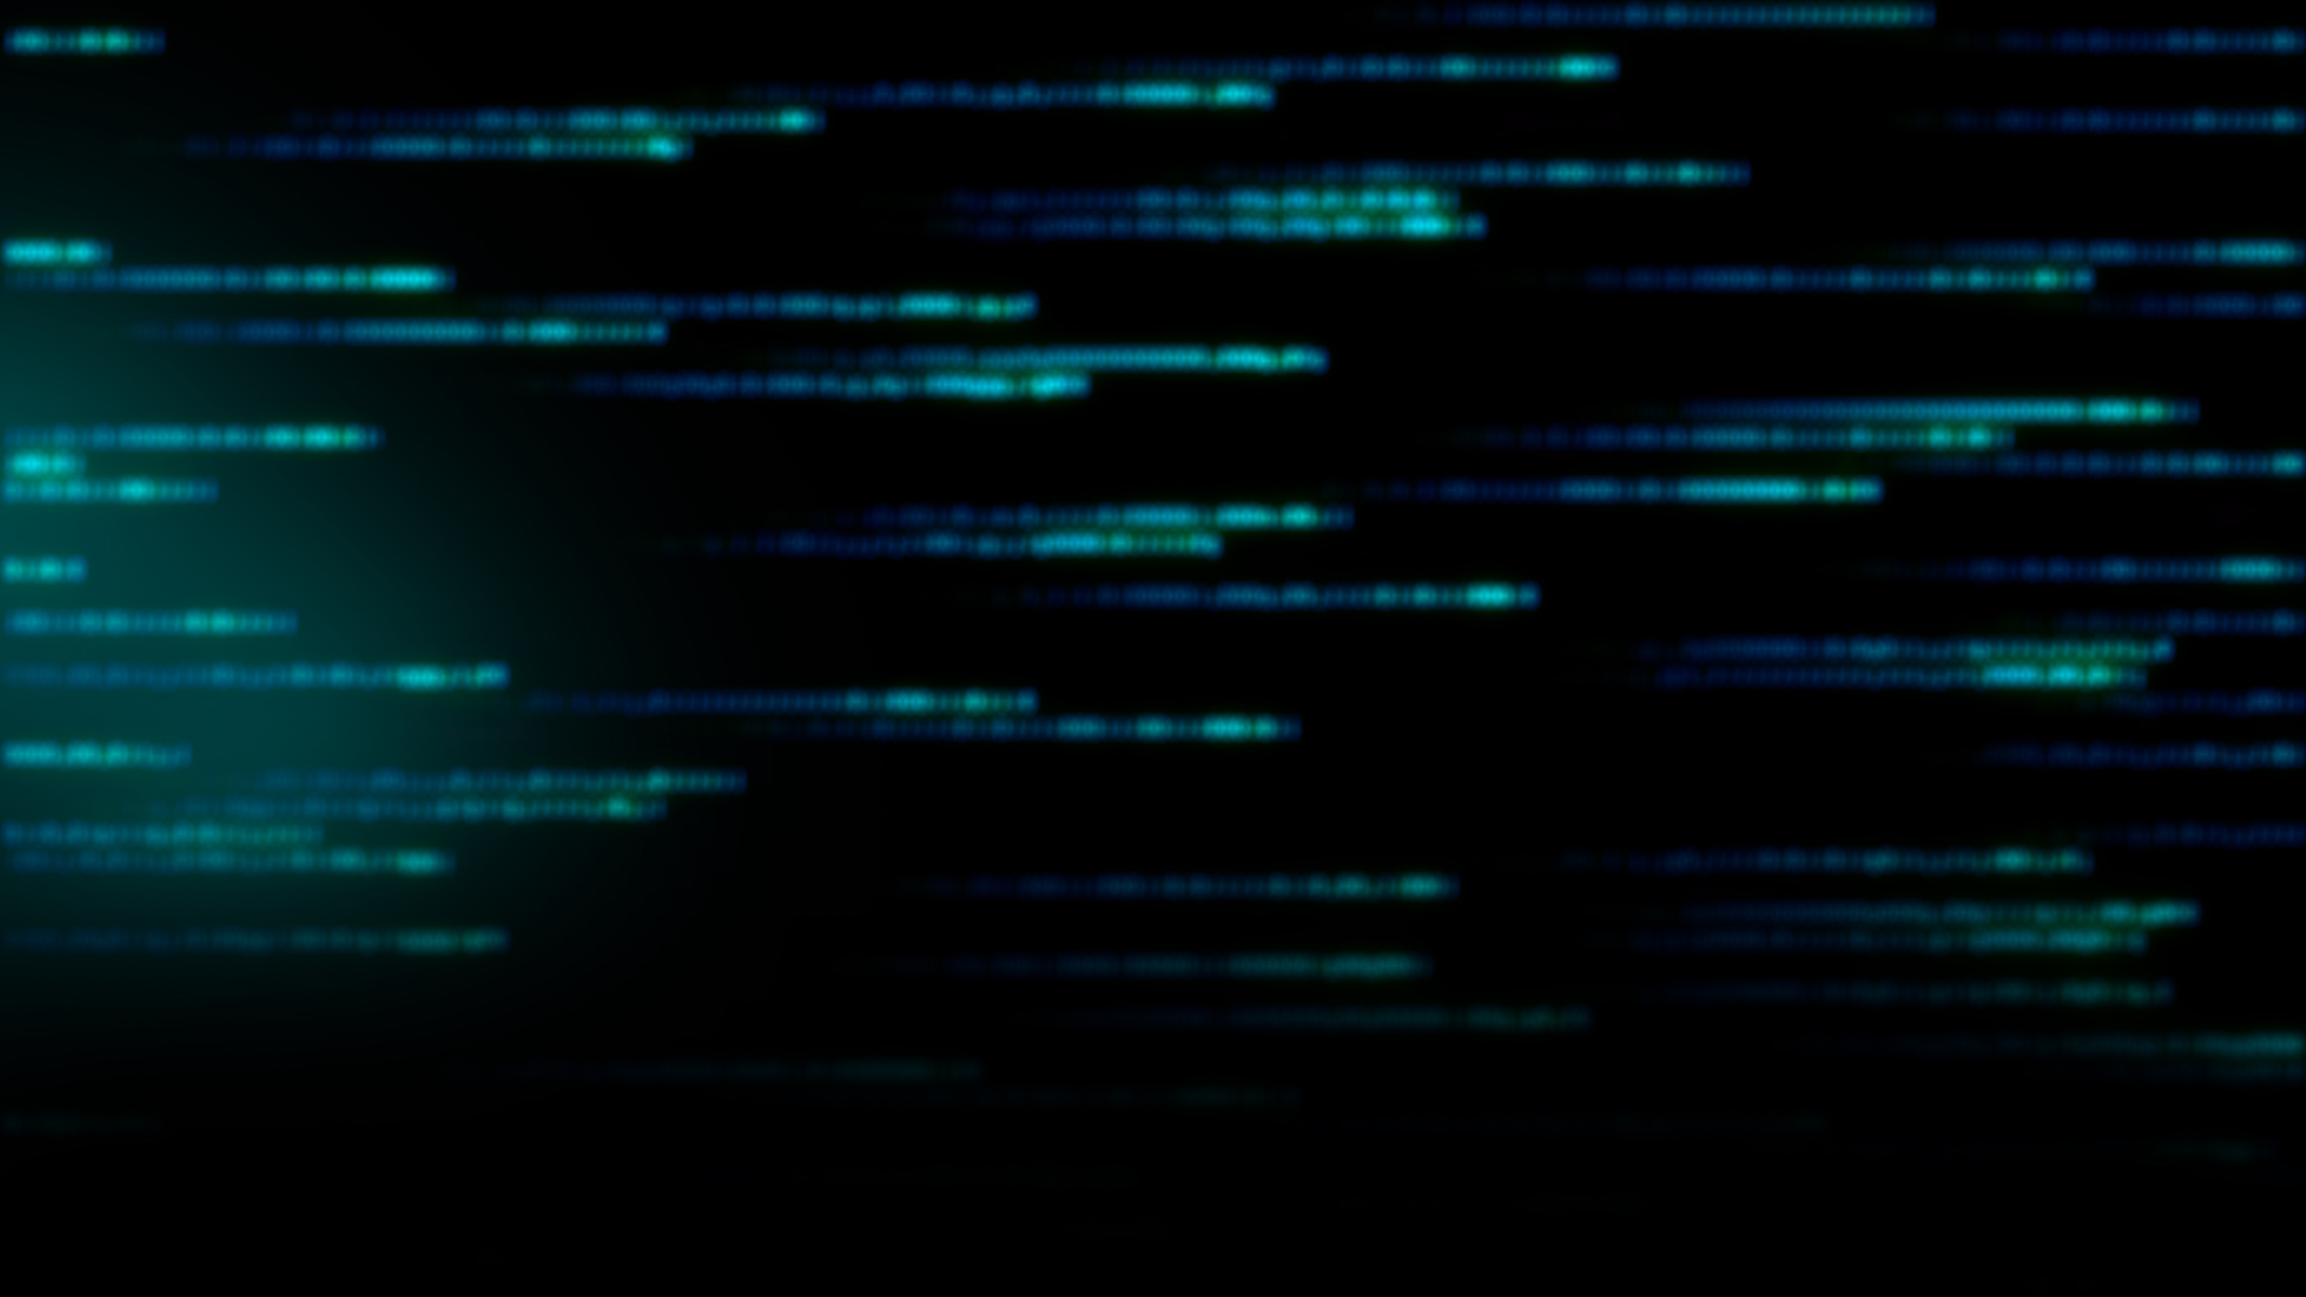
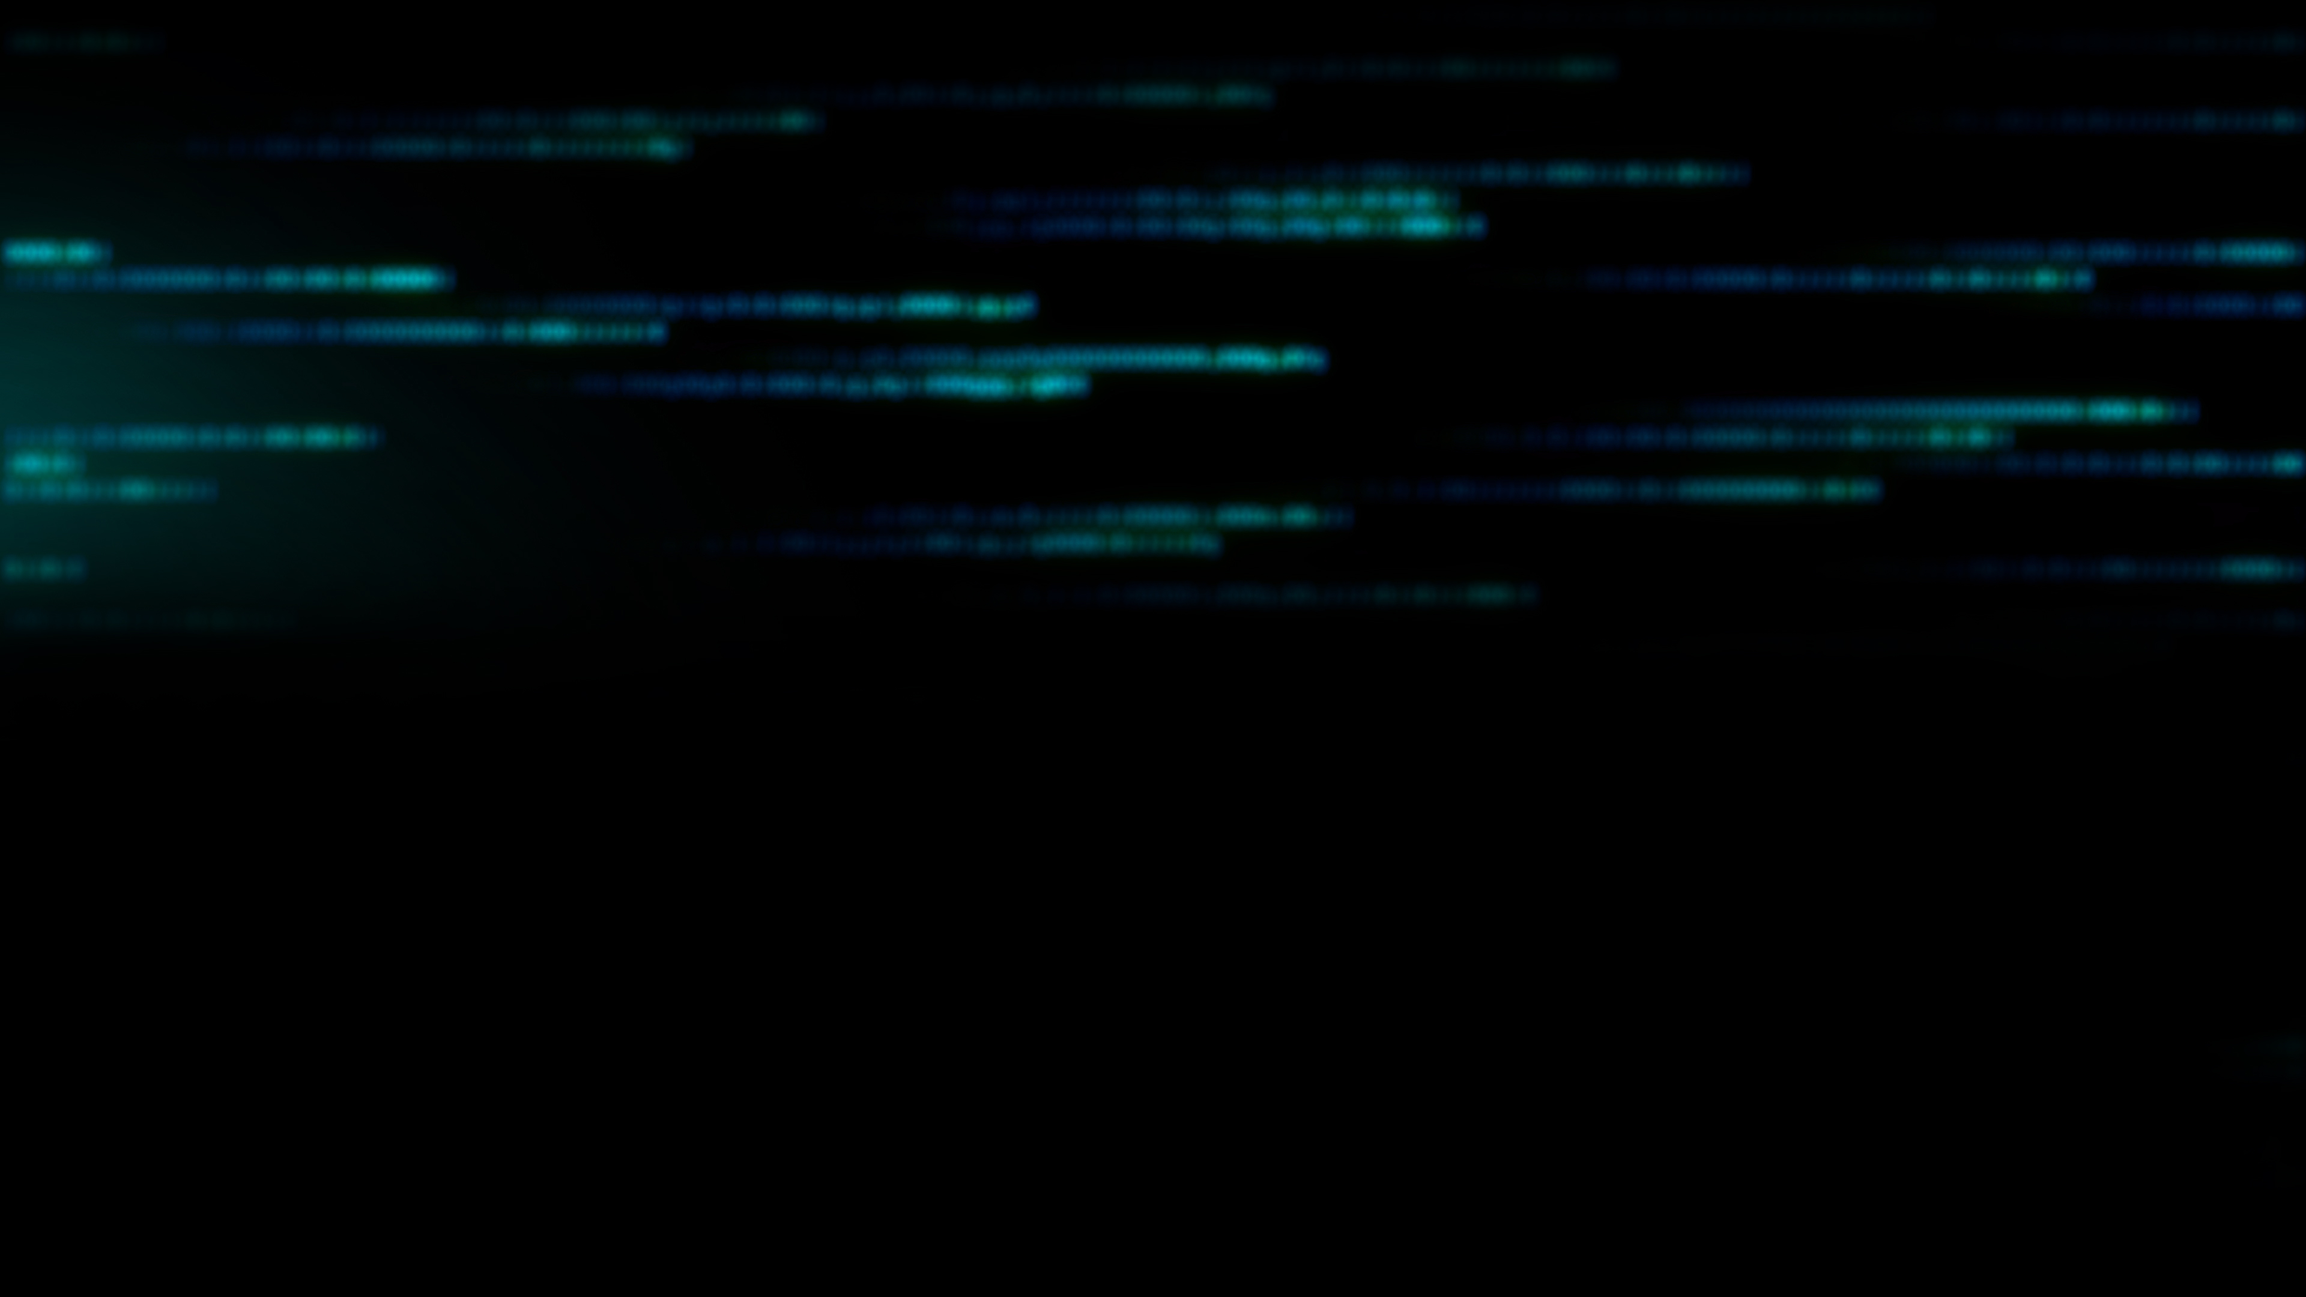
style update

diff --git a/src/App.css b/src/App.css
@@ -83,6 +83,11 @@ p.danger {
 	color: red;
 }
 /************ Navbar Css ************/
+#nv-logo{
+  max-height:50px;
+  width: 150px;
+  padding-right: 20px;
+}
 nav.navbar {
   padding: 18px 0;
   position: fixed;
@@ -334,7 +339,7 @@ nav.navbar .navbar-toggler[aria-expanded="true"] .navbar-toggler-icon {
   padding: 0 0 50px 0;
   position: relative;
   background-color: #000 !important;
-  background-image: url('./assets/img/code-wall.jpg') !important;
+  background-image: url('./assets/img/code-wall2.jpg') !important;
   background-size: cover;
  
 }
@@ -397,8 +402,9 @@ nav.navbar .navbar-toggler[aria-expanded="true"] .navbar-toggler-icon {
 .project {
   padding: 80px 0;
   position: relative;
-  background-image: url('./assets/img/code-wall2.jpg');
+  background-image: url('./assets/img/code-wall.jpg');
   background-size: cover;
+  
 }
 .project h2 {
 	font-size: 45px;
@@ -412,8 +418,9 @@ nav.navbar .navbar-toggler[aria-expanded="true"] .navbar-toggler-icon {
   line-height: 1.5em;
   margin: 14px auto 30px auto;
   text-align: center;
-  width: 56%;
+  width: 70%;
 }
+
 .project .nav.nav-pills {
   width: 72%;
   margin: 0 auto;
@@ -443,7 +450,7 @@ nav.navbar .navbar-toggler[aria-expanded="true"] .navbar-toggler-icon {
     position: absolute;
     width: 0;
     height: 100%;
-    background: linear-gradient(90.21deg, #AA367C -5.91%, #4A2FBD 111.58%);
+    background: linear-gradient(90.21deg, #0C8384 -5.91%, #083F4B 111.58%);
     top: 0;
     left: 0;
     z-index: -1;
@@ -475,7 +482,7 @@ nav.navbar .navbar-toggler[aria-expanded="true"] .navbar-toggler-icon {
 }
 .proj-imgbx::before {
   content: "";
-  background: linear-gradient(90.21deg, #AA367C -5.91%, #4A2FBD 111.58%);
+  background: linear-gradient(90.21deg, #0C8384 -5.91%, #083F4B 111.58%);
   opacity: 0.85;
   position: absolute;
   width: 100%;
@@ -519,14 +526,31 @@ nav.navbar .navbar-toggler[aria-expanded="true"] .navbar-toggler-icon {
   right: 0;
   z-index: -4;
 }
+#pageLink{
+  text-decoration: none;
+  margin-top: 120px;
+  color: #fff;
+  border-bottom: 2px solid #fff;
+}
 
 /************ Projects Css ************/
 .contact {
-  background: linear-gradient(90.21deg, #AA367C -5.91%, #4A2FBD 111.58%);
+  background-image: url('./assets/img/code-wall.jpg');
   padding: 60px 0 200px 0;
+}
+.contact form{
+  background: rgba(21, 21, 21, 0.33);
+  border-radius: 16px;
+  box-shadow: 0 4px 30px rgba(0, 0, 0, 0.1);
+  backdrop-filter: blur(5.3px);
+  -webkit-backdrop-filter: blur(5.3px);
+  border: 1px solid rgba(21, 21, 21, 0.14);
+  padding: 50px;
 }
 .contact img {
   width: 92%;
+  display:flex;
+  margin: auto auto;
 }
 .contact h2 {
 	font-size: 45px;
@@ -535,9 +559,9 @@ nav.navbar .navbar-toggler[aria-expanded="true"] .navbar-toggler-icon {
 }
 .contact form input, .contact form textarea {
   width: 100%;
-  background: rgba(255, 255, 255, 0.1);
-  border: 1px solid rgba(255, 255, 255, 0.5);
-  border-radius: 20px;
+  background:transparent;
+  outline: none !important;
+  border:none !important;
   color: #fff;
   margin: 0 0 8px 0;
   padding: 18px 26px;
@@ -545,10 +569,18 @@ nav.navbar .navbar-toggler[aria-expanded="true"] .navbar-toggler-icon {
   font-size: 18px;
   letter-spacing: 0.8px;
   transition: 0.3s ease-in-out;
+  border-bottom: 2px solid #ffffff80 !important;
+}
+.contact form textarea{
+  border: 2px solid #ffffff80 !important;
+  border-radius:8px;
+  margin-top: 20px;
+  width: 100%;
 }
 .contact form input:focus, .contact form textarea:focus {
   background: rgba(255, 255, 255, 1);
   color: #121212;
+  border-radius:8px;
 }
 .contact form input::placeholder, .contact form textarea::placeholder {
   font-size: 16px;
@@ -562,6 +594,8 @@ nav.navbar .navbar-toggler[aria-expanded="true"] .navbar-toggler-icon {
 .contact form button {
   font-weight: 700;
   color: #000;
+  width: 100%;
+  border-radius: 8px !important;
   background-color: #fff;
   padding: 14px 48px;
   font-size: 18px;
@@ -586,6 +620,7 @@ nav.navbar .navbar-toggler[aria-expanded="true"] .navbar-toggler-icon {
   top: 0;
   left: 0;
   z-index: 0;
+  border-radius: 7px !important;
   transition: 0.3s ease-in-out;
 }
 .contact form button:hover::before {
@@ -593,12 +628,29 @@ nav.navbar .navbar-toggler[aria-expanded="true"] .navbar-toggler-icon {
 }
 
 /************ Footer Css ************/
+#footerCTN{
+  margin: 0 !important;
+  padding: 0 !important;
+  margin-right: 0 !important;
+  max-width: 100%;
+}
 .footer {
-  padding: 0 0 50px 0;
-  background-image: url('./assets/img/footer-bg.png');
+  padding:0;
+  background-image: url('./assets/img/code-wall.jpg');
   background-position: center center;
   background-size: cover;
   background-repeat: no-repeat;
+  padding-top:0;
+  margin: 0  !important;
+}
+.footer-container{
+  background:#121212;;
+  padding: 50px;
+  width: 100%;
+  height: 100%;
+  margin: 0;
+ 
+
 }
 .newsletter-bx {
   background: #FFFFFF;

diff --git a/src/components/Projects.js b/src/components/Projects.js
@@ -1,8 +1,8 @@
 import { Container, Row, Col, Tab, Nav } from "react-bootstrap";
 import ProjectCard from "./ProjectCard";
-import projImg1 from "../assets/img/project-img1.png";
-import projImg2 from "../assets/img/project-img2.png";
-import projImg3 from "../assets/img/project-img3.png";
+import projImg1 from "../assets/img/punchline-card.jpg";
+import projImg2 from "../assets/img/chardle-card.jpg";
+import projImg3 from "../assets/img/ee-card.jpg";
 import colorSharp2 from "../assets/img/color-sharp2.png";
 import 'animate.css';
 import TrackVisibility from 'react-on-screen';
@@ -11,35 +11,23 @@ const Projects = () => {
     
   const projects = [
     {
-      title: "Business Startup",
-      description: "Design & Development",
+      title: "PUNCHLINE",
+      description: "E-COMMERCE (HTML, CSS, JavaScript, Bootstrap, React.js, Firebase)",
       imgUrl: projImg1,
+      siteUrl:'https://punchline-one.vercel.app'
     },
     {
-      title: "Business Startup",
-      description: "Design & Development",
+      title: "CHARDLE",
+      description: "CLON DEL JUEGO WORDLE PERO CON TEMATICA ORIENTADA A PERSONAJES FICTICIOS. (HTML, CSS, JavaScript, React.js)",
       imgUrl: projImg2,
+      siteUrl:'https://chardle.vercel.app'
     },
     {
-      title: "Business Startup",
-      description: "Design & Development",
+      title: "EE",
+      description: "CREA EXPEDIENTES DE USUARIOS CON SU INFORMACION ESPECIFICA Y ARCHIVALOS O ELIMINALOS (HTML, CSS, JavaScript, JQuery, Bootstrap)",
       imgUrl: projImg3,
-    },
-    {
-      title: "Business Startup",
-      description: "Design & Development",
-      imgUrl: projImg1,
-    },
-    {
-      title: "Business Startup",
-      description: "Design & Development",
-      imgUrl: projImg2,
-    },
-    {
-      title: "Business Startup",
-      description: "Design & Development",
-      imgUrl: projImg3,
-    },
+      siteUrl:'https://jeremiaslandry.github.io/Proyecto-Coderhouse/'
+    }
   ];
 
   return (
@@ -51,19 +39,8 @@ const Projects = () => {
                 {({ isVisible }) =>
                 <div className={isVisible ? "animate__animated animate__fadeIn": ""}>
                     <h2>Proyectos</h2>
-                    <p>Lorem Ipsum is simply dummy text of the printing and typesetting industry. Lorem Ipsum has been the industry's standard dummy text ever since the 1500s, when an unknown printer took a galley of type and scrambled it to make a type specimen book.</p>
+                    <p id='project-description'>Estos son algunos de los proyectos que realice en este ultimo año. En la descripción se pueden encontrar las diferentes tecnologías usadas para el desarrollo de estas paginas web.</p>
                     <Tab.Container id="projects-tabs" defaultActiveKey="first">
-                    <Nav variant="pills" className="nav-pills mb-5 justify-content-center align-items-center" id="pills-tab">
-                        <Nav.Item>
-                        <Nav.Link eventKey="first">Tab 1</Nav.Link>
-                        </Nav.Item>
-                        <Nav.Item>
-                        <Nav.Link eventKey="second">Tab 2</Nav.Link>
-                        </Nav.Item>
-                        <Nav.Item>
-                        <Nav.Link eventKey="third">Tab 3</Nav.Link>
-                        </Nav.Item>
-                    </Nav>
                     <Tab.Content id="slideInUp" className={isVisible ? "animate__animated animate__slideInUp" : ""}>
                         <Tab.Pane eventKey="first">
                         <Row>
@@ -78,12 +55,6 @@ const Projects = () => {
                             })
                             }
                         </Row>
-                        </Tab.Pane>
-                        <Tab.Pane eventKey="section">
-                        <p>Lorem ipsum dolor sit amet consectetur adipisicing elit. Cumque quam, quod neque provident velit, rem explicabo excepturi id illo molestiae blanditiis, eligendi dicta officiis asperiores delectus quasi inventore debitis quo.</p>
-                        </Tab.Pane>
-                        <Tab.Pane eventKey="third">
-                        <p>Loremopo ipsum dolor sit amet consectetur adipisicing elit. Cumque quam, quod neque provident velit, rem explicabo excepturi id illo molestiae blanditiis, eligendi dicta officiis asperiores delectus quasi inventore debitis quo.</p>
                         </Tab.Pane>
                     </Tab.Content>
                     </Tab.Container>

diff --git a/src/components/Contact.js b/src/components/Contact.js
@@ -1,6 +1,6 @@
 import React, { useState } from 'react'
 import { Container, Row, Col} from 'react-bootstrap';
-import contactImg from '../assets/img/contact-img.svg'
+import contactImg from '../assets/img/email.svg'
 
 const Contact = () => {
   const formInitialDetails = {
@@ -12,7 +12,7 @@ const Contact = () => {
   }
 
   const [formDetails,setFormDetails] = useState(formInitialDetails); //this will update the object 'formInitialDetails' - JJ
-  const [buttonText, setButtonText] = useState('send'); //this is the button text, when user press submit, this has to change to 'sending...' - JJ
+  const [buttonText, setButtonText] = useState('Enviar'); //this is the button text, when user press submit, this has to change to 'sending...' - JJ
   const [status, setStatus] = useState({}); //this is the status of the post method, 400 or 200 depending of the succes of the call. - JJ
 
   const onFormUpdate = (category, value) => {
@@ -50,19 +50,19 @@ const Contact = () => {
                     <img src={contactImg} alt='Contact Us'/>
                 </Col>
                 <Col md={6}>
-                    <h2>Contactame</h2>
+                    <h2 style={{textAlign: 'center'}}>Contactame</h2>
                     <form onSubmit={handleSubmit}>
                         <Row>
-                            <Col sm={6} className='px-1'>
+                            <Col sm={6} className='px-3'>
                                 <input type='text' value={formDetails.nombre} placeholder='Nombre' onChange={(e)=> onFormUpdate('nombre', e.target.value)}/>
                             </Col>
-                            <Col sm={6} className='px-1'>
+                            <Col sm={6} className='px-3'>
                                 <input type='text' value={formDetails.apellido} placeholder='Apellido' onChange={(e)=> onFormUpdate('apellido', e.target.value)}/>
                             </Col>
-                            <Col sm={6} className='px-1'>
+                            <Col sm={6} className='px-3'>
                                 <input type='email' value={formDetails.email} placeholder='Email' onChange={(e)=> onFormUpdate('email', e.target.value)}/>
                             </Col>
-                            <Col sm={6} className='px-1'>
+                            <Col sm={6} className='px-3'>
                                 <input type='tel' value={formDetails.telefono} placeholder='Telefono' onChange={(e)=> onFormUpdate('telefono', e.target.value)}/>
                             </Col>
                             <Col>

diff --git a/src/components/NavBar.js b/src/components/NavBar.js
@@ -1,6 +1,6 @@
 import React, { useState, useEffect } from 'react';
 import { Navbar, Container, Nav } from 'react-bootstrap';
-import logo from '../assets/img/logo.svg';
+import logo from '../assets/img/logo.png';
 import navIcon1 from '../assets/img/nav-icon1.svg';
 import navIcon2 from '../assets/img/nav-icon2.svg';
 import navIcon3 from '../assets/img/nav-icon3.svg';
@@ -30,6 +30,9 @@ const NavBar = () => {
   return (
     <Navbar expand="lg" className={scrolled ? 'scrolled': ''}>
         <Container>
+            <Navbar.Brand href="/">
+                <img id='nv-logo' src={logo} alt="Logo" />
+            </Navbar.Brand>
             <Navbar.Toggle aria-controls="basic-navbar-nav">
                 <span className='navbar-toggler-icon'></span>
             </Navbar.Toggle>
@@ -37,7 +40,7 @@ const NavBar = () => {
             <Nav className="me-auto">
                 <Nav.Link href="#home" className={activeLink === 'home' ? 'active navbar-link' : 'navbar-link'} onClick={() => onUpdateActiveLink('home')}>Inicio</Nav.Link>
                 <Nav.Link href="#skills" className={activeLink === 'skills' ? 'active navbar-link' : 'navbar-link'} onClick={() => onUpdateActiveLink('skills')}>Tecnologías</Nav.Link>
-                <Nav.Link href="#projects" className={activeLink === 'projects' ? 'active navbar-link' : 'navbar-link'} onClick={() => onUpdateActiveLink('projects')}>Proyectos</Nav.Link>
+                <Nav.Link href="#project" className={activeLink === 'projects' ? 'active navbar-link' : 'navbar-link'} onClick={() => onUpdateActiveLink('projects')}>Proyectos</Nav.Link>
             </Nav>
             <span className='navbar-text'>
                 <div className='social-icon'>

diff --git a/src/components/Footer.js b/src/components/Footer.js
@@ -1,5 +1,5 @@
 import { Container, Row, Col } from "react-bootstrap";
-import logo from "../assets/img/logo.svg";
+import logo from "../assets/img/logo.png";
 import navIcon1 from "../assets/img/nav-icon1.svg";
 import navIcon2 from "../assets/img/nav-icon2.svg";
 import navIcon3 from "../assets/img/nav-icon3.svg";
@@ -7,10 +7,10 @@ import navIcon3 from "../assets/img/nav-icon3.svg";
 const Footer = () => {
   return (
     <footer className="footer">
-      <Container>
-        <Row className="align-items-center">
+      <Container id='footerCTN'>
+        <Row className="align-items-center footer-container">
           <Col size={12} sm={6}>
-            <img src={logo} alt="Logo" />
+            <img src={logo} alt="Logo" style={{maxWidth:200+'px'}}/>
           </Col>
           <Col size={12} sm={6} className="text-center text-sm-end">
             <div className="social-icon">

diff --git a/src/components/Banner.js b/src/components/Banner.js
@@ -47,7 +47,7 @@ const Banner = () => {
             <Row className='align-items-center'>
                 <Col xs={12} md={6} xl={7}>
                     <span>Bienvenidos a mi Portfolio</span>
-                    <h1>{`>Hola, soy Jeremías. `}<span className='wrap'>{text}</span><span id='terminalSquare'>.</span></h1>
+                    <h1>{`>Hola!, soy Jeremías. `}<span className='wrap'>{text}</span><span id='terminalSquare'>.</span></h1>
                     <p>Soy un desarrollador web proveniente de Argentina. Realice varios proyectos por mi cuenta y para una Institucion Educativa. Algunos de esos proyectos pueden verse en la sección 'Proyectos' que se encuentra mas abajo.</p>
                     <button onClick={() => console.log('connect')}>Conectemos!<ArrowRightCircle size={25}/></button>
                 </Col>

diff --git a/src/components/ProjectCard.js b/src/components/ProjectCard.js
@@ -1,7 +1,7 @@
 import React from 'react'
 import { Col } from 'react-bootstrap'
 
-const ProjectCard = ({ title, description, imgUrl}) => {
+const ProjectCard = ({ title, description, imgUrl, siteUrl}) => {
   return (
     <Col sm={6} md={4}>
         <div className='proj-imgbx'>
@@ -9,6 +9,8 @@ const ProjectCard = ({ title, description, imgUrl}) => {
                 <div className='proj-txtx'>
                     <h4>{title}</h4>
                     <span>{description}</span>
+                    <br/>
+                    <span><a href={siteUrl} target='_blank' id='pageLink'>Ir a la pagina.</a></span>
                 </div>
         </div>
     </Col>
